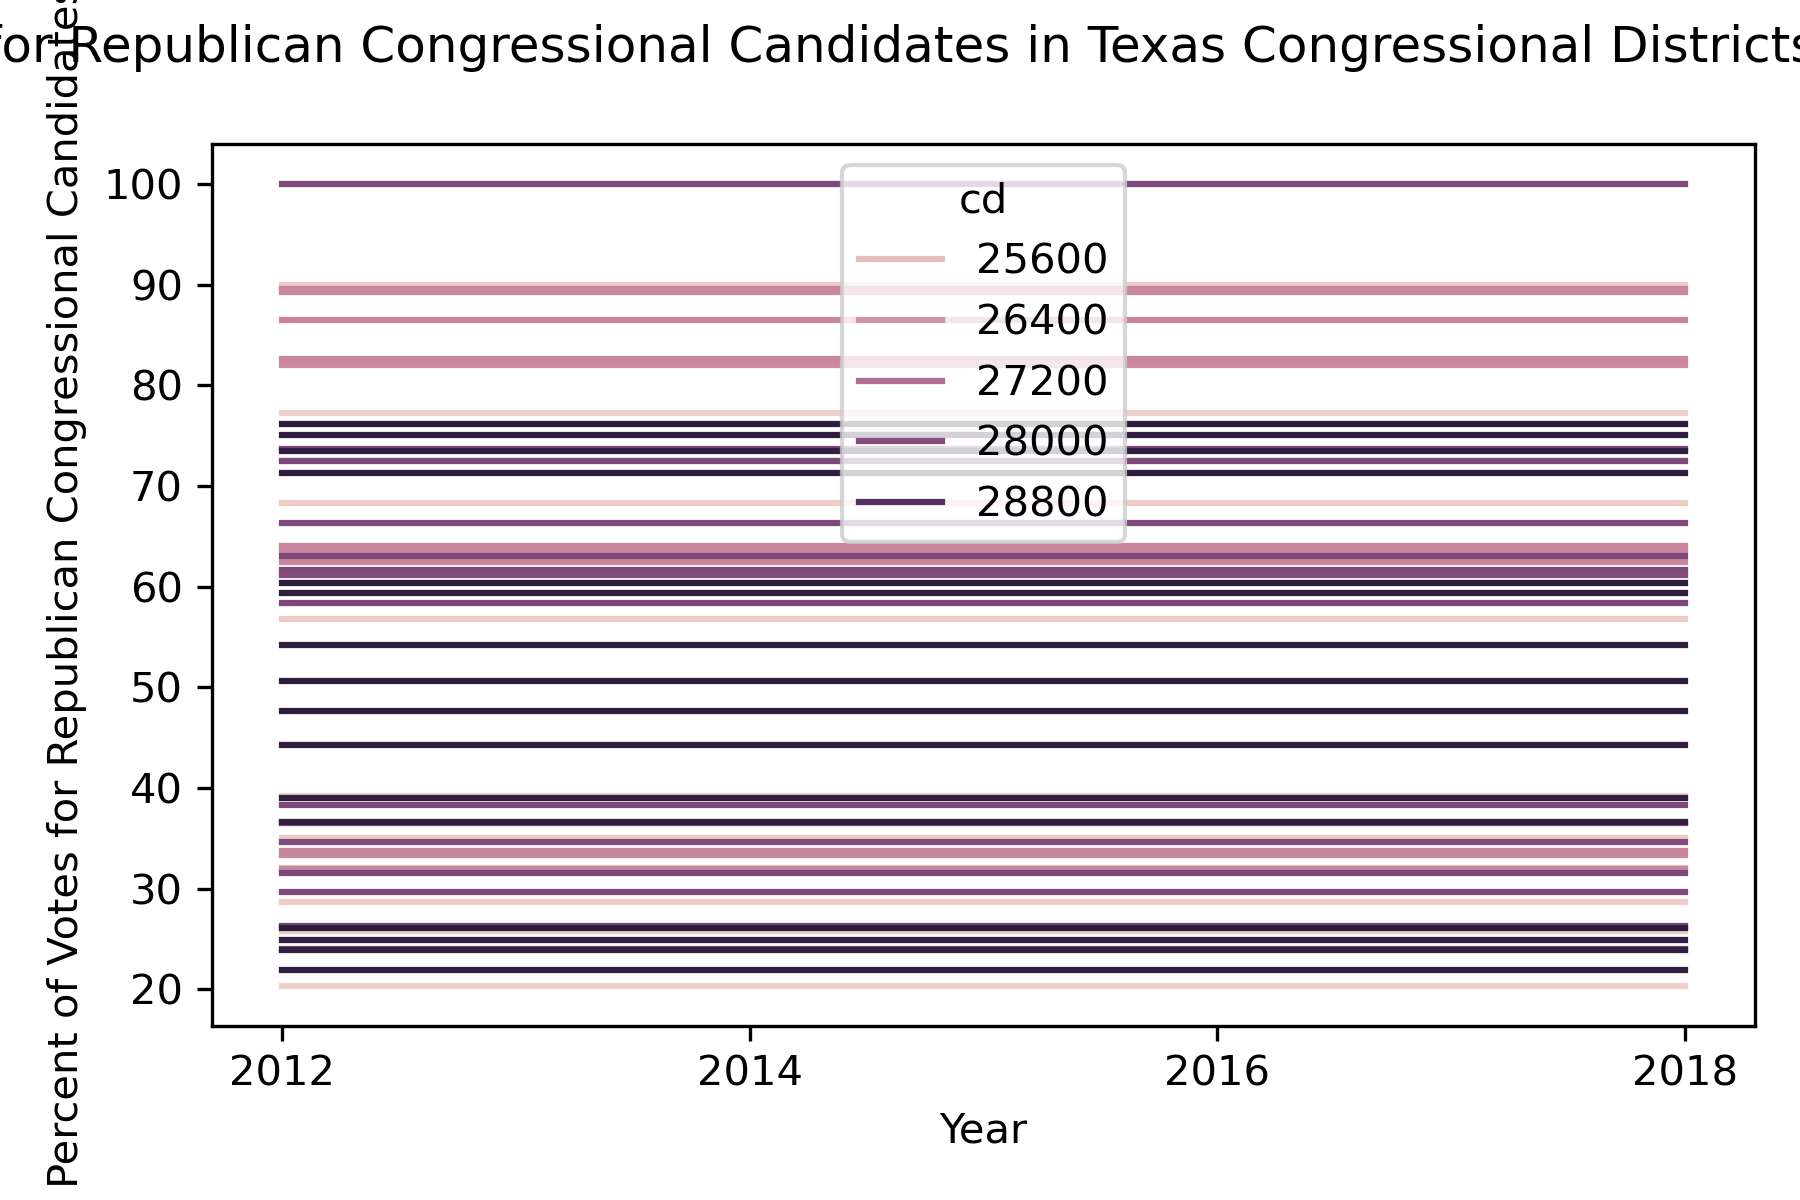
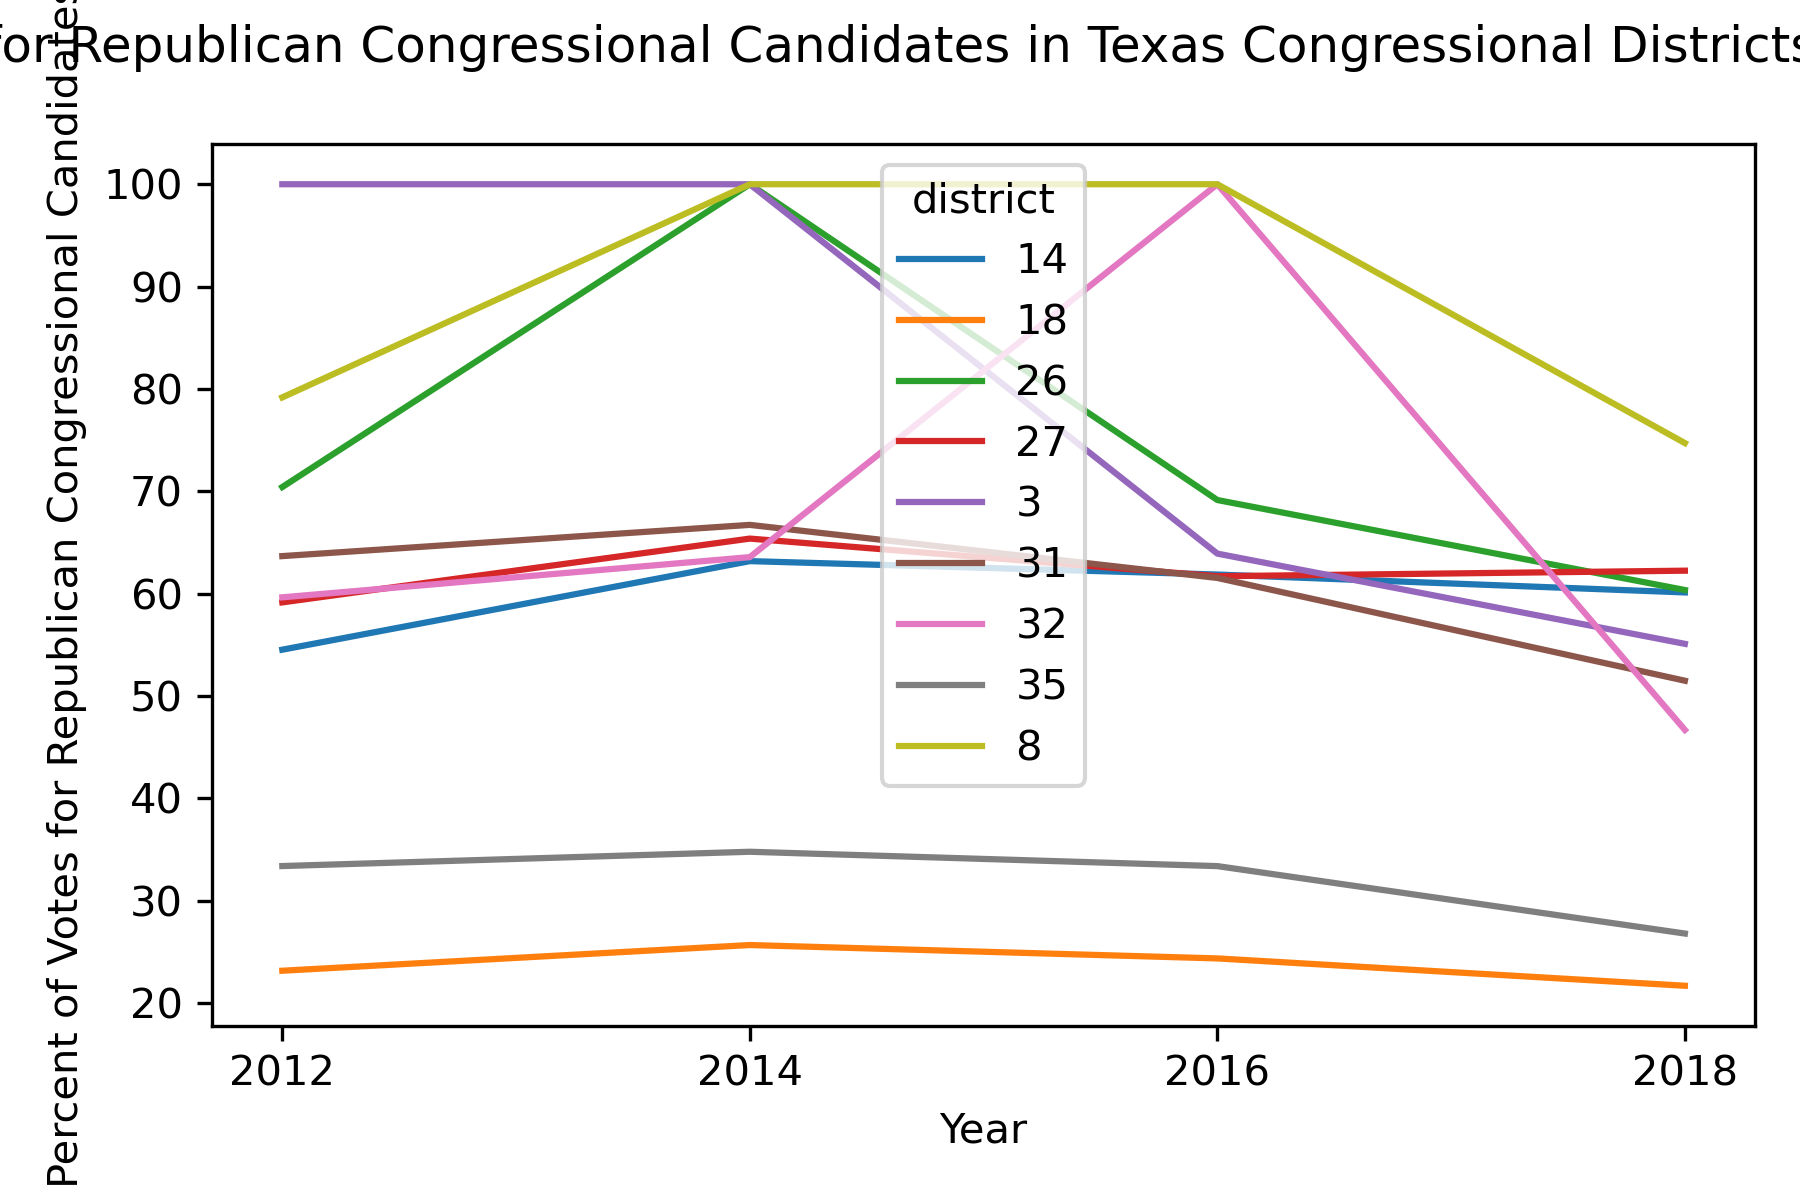
Generated CDpercentrepublican.png and CPpercentrepcontested.png

diff --git a/electiondata.py b/electiondata.py
@@ -7,8 +7,12 @@ Created on Thu May  6 19:42:37 2021
 
 import pandas as pd
 
-fix_dtype = {'year':str,'state':str,'district':str,'party':str,'candidatevotes':float,
-            'totalvotes':float}
+fix_dtype = {'year':str,
+             'state':str,
+             'district':str,
+             'party':str,
+             'candidatevotes':float,
+             'totalvotes':float}
 electionresults = pd.read_csv('1976-2018-house3.csv', dtype = fix_dtype)
 
 election12_18 = electionresults.query("year == '2012' or year == '2014' or year == '2016' or year == '2018'")
@@ -17,7 +21,7 @@ TXelections12_18 = election12_18.query("state == 'TEXAS'")
 
 TXelections12_18_DR = TXelections12_18.query("party == 'DEMOCRAT' or party == 'REPUBLICAN'")
 
-districts = ['3','26','33','31','35','27','8','29']
+districts = ['3','26','32','31','35','27','8','18','14']
 in_districts = TXelections12_18_DR['district'].isin(districts)
 
 specificTXCDs = TXelections12_18_DR[in_districts]
@@ -42,6 +46,34 @@ CDrep['DEMpercent'] = 100 * CDrep['DEMOCRAT']/ CDrep['totalvotes']
 CDrep['electedREP'] = CDrep['REPUBLICAN'] > CDrep['DEMOCRAT']
 
 #%%
+import matplotlib.pyplot as plt
+import seaborn as sns
+
+fig, ax = plt.subplots()
+sns.lineplot(x = "year", y = "REPpercent", data=CDrep, hue='district', ax=ax)
+fig.suptitle("Percent of Votes for Republican Congressional Candidates in Texas Congressional Districts from 2012-2018")
+ax.set_xlabel("Year")
+ax.set_ylabel("Percent of Votes for Republican Congressional Candidates")
+fig.tight_layout()
+fig.savefig("CDpercentrepublican.png", dpi=300)
+
+#shorten title or formatted differently and move legend
+
+#%%
+CDrepcontested = CDrep.query("REPpercent != 0")
+CDrepdemcontested = CDrepcontested.query("DEMpercent != 0")
+
+#%%
+fig, ax = plt.subplots()
+sns.lineplot(x = "year", y = "REPpercent", data=CDrepdemcontested, hue='district', ax=ax)
+fig.suptitle("Percent of Votes for Texas Republican Congressional Candidates in Contested U.S. House Elections from 2012-2018")
+ax.set_xlabel("Year")
+ax.set_ylabel("Percent of Votes for Republican Congressional Candidates")
+fig.tight_layout()
+fig.savefig("CDpercentrepcontested.png", dpi=300)
+
+
+
 
 #margin of victory; build lil dataframe CDrep drop where REP = 0 and where DEM = 0
 #CDrep.dropna() ??
@@ -74,17 +106,5 @@ CDrep['electedREP'] = CDrep['REPUBLICAN'] > CDrep['DEMOCRAT']
 #rep.columns = ['cd','year','%rep']
 
 #%%
-import matplotlib.pyplot as plt
-import seaborn as sns
 
-fig, ax = plt.subplots()
-sns.lineplot(x = "year", y = "%rep", data=rep, hue='cd', ax=ax)
-fig.suptitle("Percent of Votes for Republican Congressional Candidates in Texas Congressional Districts from 2012-2018")
-ax.set_xlabel("Year")
-ax.set_ylabel("Percent of Votes for Republican Congressional Candidates")
-fig.tight_layout()
-fig.savefig("CDpercentrepublican.png", dpi=300)
-
-
-#shorten title or get them formatted differently.
 #I don't know what to do after I have both %w and %r plotted

diff --git a/racedatajoin.py b/racedatajoin.py
@@ -44,7 +44,7 @@ white = white.stack()
 white = white.reset_index()
 white.columns = ['cd','year','w%']
 
-districts = ['03','26','33','31','35','27','08','29']
+districts = ['03','26','32','31','35','27','08','18','14']
 in_districts = white['cd'].isin(districts)
 
 white = white[in_districts]
